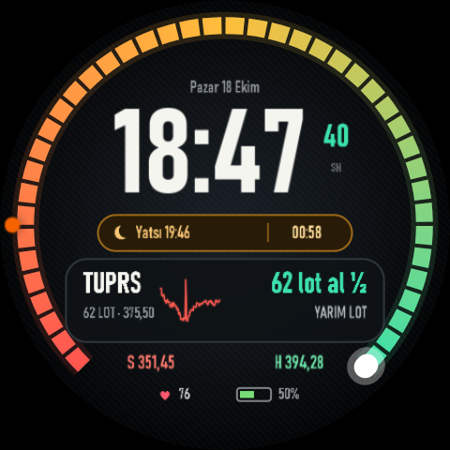
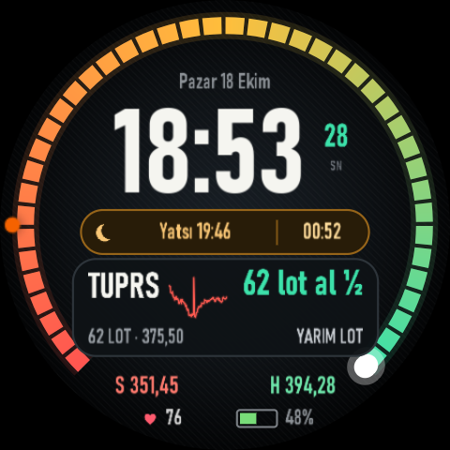
WatchApp A: kucuk yazilar buyutuldu, namaz vakti sol bolumde ortali, panel daraltildi

Changed region(s): [[0.1244, 0.4667, 0.8711, 0.9644], [0.3733, 0.1556, 0.6844, 0.4356], [0.7156, 0.2489, 0.7778, 0.3733]]

diff --git a/WatchApp/design/gen_faces.py b/WatchApp/design/gen_faces.py
@@ -208,7 +208,7 @@ def face_ultra():
         f'<Default>{text(tpl_x, 0, tpl_w, 36, "%s", ["[COMPLICATION.TEXT]"], "bc", size, "#ffb4b2a9", "END", 140)}</Default>'
         '</Condition>')
 
-    px0, py0, pw, ph = k(90), k(272), k(300), k(78)       # panel
+    px0, py0, pw, ph = k(96), k(272), k(288), k(92)       # panel
     xml = f'''<?xml version="1.0" encoding="utf-8"?>
 <!-- A · ULTRA PRO — gen_faces.py ile üretildi, elle düzenlemeyin. -->
 <WatchFace width="450" height="450" clipShape="CIRCLE">
@@ -230,7 +230,7 @@ def face_ultra():
         {slot(0, 0, 0, 450, 450, "RANGED_VALUE", APP + "RingComplicationService", "RANGED_VALUE", "slot_alsat", ring_body,
               '<BoundingOval x="0" y="0" width="450" height="450" />')}
 
-        {text(0, k(98), 450, k(24), "%s %s %s", ["[DAY_OF_WEEK_F]", "[DAY]", "[MONTH_F]"], "sc", k(16), GRAY, "CENTER", 110)}
+        {text(0, k(90), 450, k(30), "%s %s %s", ["[DAY_OF_WEEK_F]", "[DAY]", "[MONTH_F]"], "sc", k(21), GRAY, "CENTER", 110)}
 
         <DigitalClock x="{-k(14)}" y="{k(120)}" width="450" height="{k(112)}">{amb(170)}
             <TimeText format="hh:mm" hourFormat="24" align="CENTER" x="0" y="0" width="450" height="{k(112)}">
@@ -242,50 +242,50 @@ def face_ultra():
                 <BitmapFont family="bc" size="{k(30)}" color="{TEAL}" />
             </TimeText>
         </DigitalClock>
-        {text(k(132) + 225 - 40, k(178), 80, 16, "SN", [], "sc", 12, "#ff5a5f64", "CENTER", 0)}
+        {text(k(132) + 225 - 40, k(176), 80, 18, "SN", [], "sc", 14, "#ff6e737a", "CENTER", 0)}
 
-        <PartDraw x="{k(120)}" y="{k(230)}" width="{k(240)}" height="{k(34)}">{amb(0)}
-            <RoundRectangle x="0" y="0" width="{k(240)}" height="{k(34)}" cornerRadiusX="{k(17)}" cornerRadiusY="{k(17)}">
+        <PartDraw x="{k(104)}" y="{k(226)}" width="{k(272)}" height="{k(42)}">{amb(0)}
+            <RoundRectangle x="0" y="0" width="{k(272)}" height="{k(42)}" cornerRadiusX="{k(21)}" cornerRadiusY="{k(21)}">
                 <Fill color="#ff281c08" /><Stroke color="#ff966419" thickness="2" />
             </RoundRectangle>
-            <Rectangle x="{k(160)}" y="{k(8)}" width="2" height="{k(18)}"><Fill color="#ff7a5214" /></Rectangle>
+            <Rectangle x="{k(184)}" y="{k(9)}" width="2" height="{k(24)}"><Fill color="#ff7a5214" /></Rectangle>
         </PartDraw>
-        <PartImage x="{k(134)}" y="{k(239)}" width="{k(16)}" height="{k(16)}">{amb(140)}<Image resource="ic_moon" /></PartImage>
-        {slot(1, k(156), k(230), k(122), k(34), "SHORT_TEXT", EZAN + "SonrakiVakitComplicationProviderService", "SHORT_TEXT", "slot_ezan",
-              text(0, k(3), k(122), k(28), "%s %s", ["[COMPLICATION.TITLE]", "[COMPLICATION.TEXT]"], "sc", k(17), AMBER, "START", 150))}
-        {slot(5, k(286), k(230), k(62), k(34), "SHORT_TEXT", EZAN + "VaktinCikmasinaComplicationProviderService", "SHORT_TEXT", "slot_kalan",
-              text(0, k(3), k(62), k(28), "%s", ["[COMPLICATION.TEXT]"], "sc", k(17), "#ffffdc9a", "CENTER", 150))}
+        <PartImage x="{k(116)}" y="{k(237)}" width="{k(20)}" height="{k(20)}">{amb(140)}<Image resource="ic_moon" /></PartImage>
+        {slot(1, k(138), k(226), k(148), k(42), "SHORT_TEXT", EZAN + "SonrakiVakitComplicationProviderService", "SHORT_TEXT", "slot_ezan",
+              text(0, k(4), k(148), k(34), "%s %s", ["[COMPLICATION.TITLE]", "[COMPLICATION.TEXT]"], "sc", k(22), AMBER, "CENTER", 150))}
+        {slot(5, k(290), k(226), k(84), k(42), "SHORT_TEXT", EZAN + "VaktinCikmasinaComplicationProviderService", "SHORT_TEXT", "slot_kalan",
+              text(0, k(4), k(84), k(34), "%s", ["[COMPLICATION.TEXT]"], "sc", k(22), "#ffffdc9a", "CENTER", 150))}
 
         <PartDraw x="{px0}" y="{py0}" width="{pw}" height="{ph}">{amb(0)}
-            <RoundRectangle x="0" y="0" width="{pw}" height="{ph}" cornerRadiusX="{k(20)}" cornerRadiusY="{k(20)}">
+            <RoundRectangle x="0" y="0" width="{pw}" height="{ph}" cornerRadiusX="{k(22)}" cornerRadiusY="{k(22)}">
                 <Fill color="#eb0e1216" /><Stroke color="#ff2d343a" thickness="2" />
             </RoundRectangle>
         </PartDraw>
-        {slot(6, k(176), k(288), k(62), k(46), "SMALL_IMAGE", APP + "SparkComplicationService", "SMALL_IMAGE", "slot_grafik",
-              f'<PartImage x="0" y="0" width="{k(62)}" height="{k(46)}">{amb(0)}<Image resource="[COMPLICATION.SMALL_IMAGE]" /></PartImage>')}
-        {slot(2, px0 + k(16), k(278), pw - k(32), 36, "RANGED_VALUE", APP + "KzComplicationService", "RANGED_VALUE", "slot_alsat",
-              text(0, 0, k(130), 36, "%s", ["[COMPLICATION.TITLE]"], "bc", k(28), WHITE, "START", 150) + kz_cond(k(130), pw - k(32) - k(130), k(28)))}
-        {slot(7, px0 + k(16), k(312), pw - k(32), 22, "RANGED_VALUE", APP + "RingComplicationService", "RANGED_VALUE", "slot_alsat",
-              text(0, 0, k(170), 22, "%s", ["[COMPLICATION.TEXT]"], "sc", k(15), "#ff82878c", "START", 0)
-              + text(k(170), 0, pw - k(32) - k(170), 22, "%s", ["[COMPLICATION.TITLE]"], "sc", k(16), "#ffb4b9be", "END", 0))}
+        {slot(6, k(184), k(286), k(60), k(44), "SMALL_IMAGE", APP + "SparkComplicationService", "SMALL_IMAGE", "slot_grafik",
+              f'<PartImage x="0" y="0" width="{k(60)}" height="{k(44)}">{amb(0)}<Image resource="[COMPLICATION.SMALL_IMAGE]" /></PartImage>')}
+        {slot(2, px0 + k(14), k(278), pw - k(28), k(40), "RANGED_VALUE", APP + "KzComplicationService", "RANGED_VALUE", "slot_alsat",
+              text(0, 0, k(100), k(40), "%s", ["[COMPLICATION.TITLE]"], "bc", k(34), WHITE, "START", 150) + kz_cond(k(100), pw - k(28) - k(100), k(34)))}
+        {slot(7, px0 + k(14), k(330), pw - k(28), k(30), "RANGED_VALUE", APP + "RingComplicationService", "RANGED_VALUE", "slot_alsat",
+              text(0, 0, k(180), k(30), "%s", ["[COMPLICATION.TEXT]"], "sc", k(20), "#ff9aa0a6", "START", 0)
+              + text(k(180), 0, pw - k(28) - k(180), k(30), "%s", ["[COMPLICATION.TITLE]"], "sc", k(20), "#ffc8cdd2", "END", 0))}
 
-        {slot(3, k(110), k(358), k(120), 26, "SHORT_TEXT", APP + "StopComplicationService", "SHORT_TEXT", "slot_alsat",
-              text(0, 0, k(120), 26, "%s", ["[COMPLICATION.TEXT]"], "sc", k(18), RED, "CENTER", 120))}
-        {slot(4, k(250), k(358), k(120), 26, "SHORT_TEXT", APP + "TargetComplicationService", "SHORT_TEXT", "slot_alsat",
-              text(0, 0, k(120), 26, "%s", ["[COMPLICATION.TEXT]"], "sc", k(18), GREEN, "CENTER", 120))}
+        {slot(3, k(96), k(376), k(140), k(32), "SHORT_TEXT", APP + "StopComplicationService", "SHORT_TEXT", "slot_alsat",
+              text(0, 0, k(140), k(32), "%s", ["[COMPLICATION.TEXT]"], "sc", k(24), RED, "CENTER", 120))}
+        {slot(4, k(244), k(376), k(140), k(32), "SHORT_TEXT", APP + "TargetComplicationService", "SHORT_TEXT", "slot_alsat",
+              text(0, 0, k(140), k(32), "%s", ["[COMPLICATION.TEXT]"], "sc", k(24), GREEN, "CENTER", 120))}
 
-        <PartImage x="{k(176)}" y="{k(392)}" width="{k(16)}" height="{k(16)}">{amb(0)}<Image resource="ic_heart" /></PartImage>
-        {text(k(196), k(390), 50, 20, "%s", ["[HEART_RATE]"], "sc", k(15), "#ffc8c8c8", "START", 0)}
-        <PartDraw x="{k(250)}" y="{k(393)}" width="{k(34)}" height="{k(14)}">{amb(0)}
-            <RoundRectangle x="1" y="1" width="{k(32)}" height="{k(12)}" cornerRadiusX="3" cornerRadiusY="3">
+        <PartImage x="{k(160)}" y="{k(412)}" width="{k(20)}" height="{k(20)}">{amb(0)}<Image resource="ic_heart" /></PartImage>
+        {text(k(184), k(408), 60, k(28), "%s", ["[HEART_RATE]"], "sc", k(21), "#ffd2d2d2", "START", 0)}
+        <PartDraw x="{k(250)}" y="{k(413)}" width="{k(40)}" height="{k(18)}">{amb(0)}
+            <RoundRectangle x="1" y="1" width="{k(38)}" height="{k(16)}" cornerRadiusX="3" cornerRadiusY="3">
                 <Stroke color="#ff787d82" thickness="2" />
             </RoundRectangle>
-            <Rectangle x="4" y="4" width="1" height="{k(14) - 8}">
-                <Transform target="width" value="{k(26)} * [BATTERY_PERCENT] / 100" />
+            <Rectangle x="4" y="4" width="1" height="{k(18) - 8}">
+                <Transform target="width" value="{k(32)} * [BATTERY_PERCENT] / 100" />
                 <Fill color="#ff78dc78" />
             </Rectangle>
         </PartDraw>
-        {text(k(290), k(390), 60, 20, "%s%%", ["[BATTERY_PERCENT]"], "sc", k(15), GRAY, "START", 0)}
+        {text(k(296), k(408), 70, k(28), "%s%%", ["[BATTERY_PERCENT]"], "sc", k(21), GRAY, "START", 0)}
     </Scene>
 </WatchFace>
 '''
